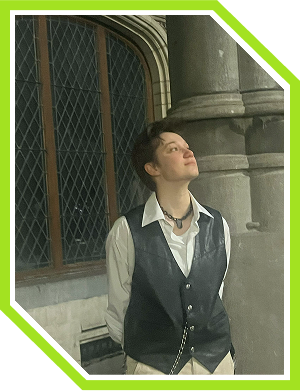
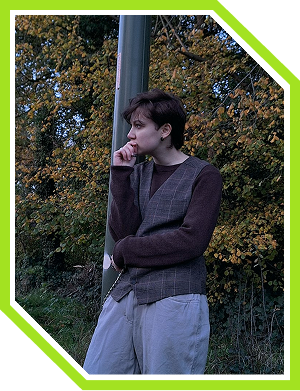
Update image paths and enhance photo changer functionality

diff --git a/index.html b/index.html
@@ -83,7 +83,7 @@
         <p>My name is Charlie Van Belle</p>
         <p>- Student Digital Experience Design -</p>
         <img class="hero-logo" src="./images/logo-white.svg" alt="logo">
-        <a class="CTA-btn hidden" href="#contact">Get in touch</a>
+        <a class="CTA-btn" href="#contact">Get in touch</a>
     </header>
 
     <section id="about-me" class="aboutme">
@@ -149,8 +149,7 @@
                     </li>
                 </ul>
             </div>
-            <img class="aboutme-photo" src="./images/photo_1.webp" alt="picture of me">
-
+            <img class="aboutme-photo" src="./images/photo_1.png" alt="picture of me">
         </div>
     </section>
 

diff --git a/script.js b/script.js
@@ -62,9 +62,13 @@ const photos = [
     './images/photo_3.png',
     './images/photo_4.png'
 ];
-let currentPhoto = 1;
+let currentPhoto = 0;
 function changePhoto() {
-    currentPhoto = (currentPhoto + 1) % photos.length;
-    photo.src = photos[currentPhoto];
+    photo.style.opacity = 0.25;
+    setTimeout(() => {
+        currentPhoto = (currentPhoto + 1) % photos.length;
+        photo.src = photos[currentPhoto];
+        photo.style.opacity = 1;
+    }, 300);
 }
-setInterval(changePhoto, 5000);
+setInterval(changePhoto, 10000);
